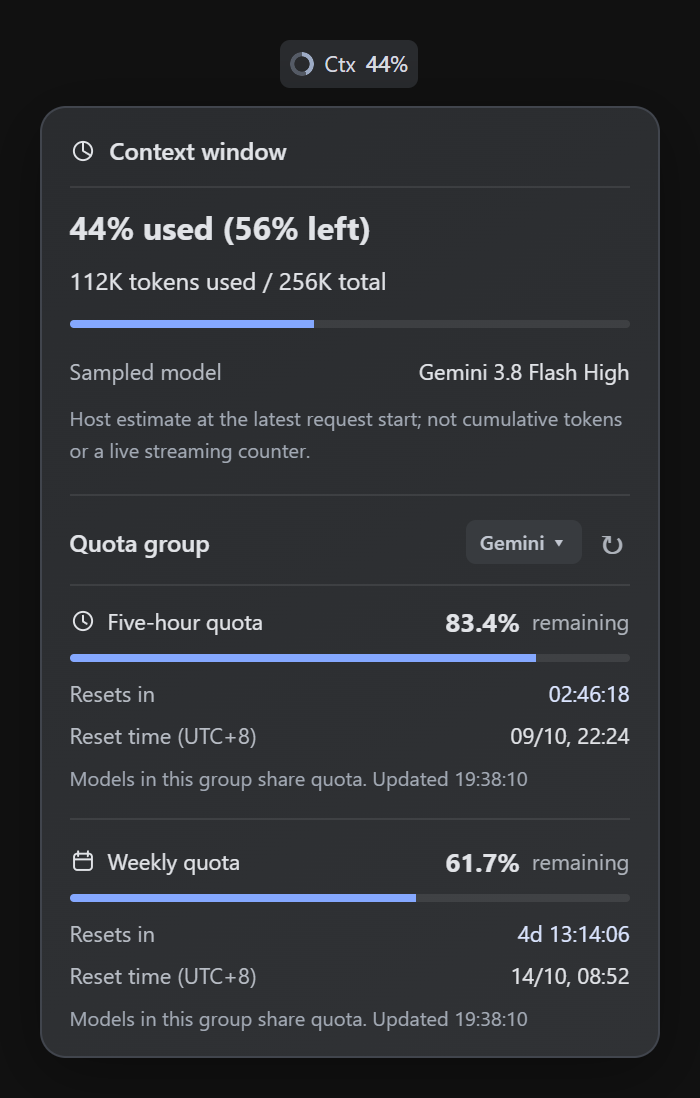
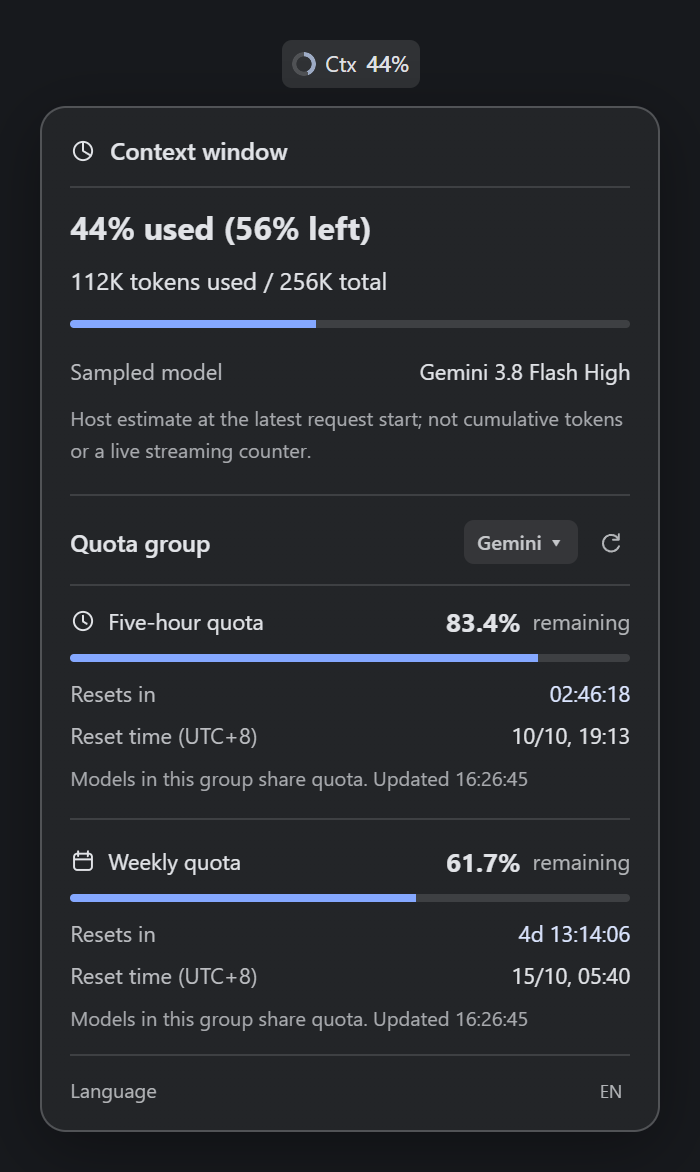
docs: refresh v0.6.3 screenshots and compact bilingual previews

diff --git a/README.md b/README.md
@@ -1,6 +1,6 @@
 <div align="center">
 
-<img src="docs/assets/hero.png?v=0.5.0-compact" width="100%" alt="Antigrative Dashboard v0.5: speed, cache and context beside the model selector.">
+<img src="docs/assets/hero.png?v=0.6.3" width="100%" alt="Antigrative Dashboard v0.6.3: current speed, cache and context controls beside the input.">
 
 # Antigrative Dashboard
 
@@ -20,9 +20,17 @@ Keep the summary visible. Hover for the details.
 
 ## Preview
 
-<img src="docs/assets/widget.png?v=0.5.1-compact" width="100%" alt="The latest three-control toolbar and its token cache hover card.">
+<img src="docs/assets/responsive.png?v=0.6.3" width="100%" alt="Current three-icon layout in a narrow main chat and separate statistics beside a subagent input.">
 
-<sub>Artwork uses illustrative data, not real account quotas or conversations. The installed widget reads metrics from your local Antigravity app. The widget defaults to English. Use the EN / 中 button to switch languages; your choice is saved.</sub>
+<table>
+<tr><th width="50%">Speed and cache</th><th width="50%">Context and shared quotas</th></tr>
+<tr>
+<td width="50%" valign="top"><img src="docs/assets/speed.png?v=0.6.3" width="100%" alt="Current generation speed detail card"><br><img src="docs/assets/widget.png?v=0.6.3" width="100%" alt="Current token usage and cache detail card"></td>
+<td width="50%" valign="top"><img src="docs/assets/context.png?v=0.6.3" width="100%" alt="Current context, five-hour and weekly quota details, with the saved-language control"></td>
+</tr>
+</table>
+
+<sub>Rendered from the current widget source with illustrative host layouts and data. Main and subagent samples use separate statistics; quotas are account-wide. The 44% context sample uses the latest request-start estimate, not cumulative input. The widget defaults to English; EN / 中 saves your choice.</sub>
 
 **Keep working. The numbers are already there.**
 
@@ -45,12 +53,6 @@ Keep the summary visible. Hover for the details.
 - **Compact-window support.** Full statistics reduce to three clickable icons (speed, cache and context) when space is limited. Hover or click for details; language switching stays available in the context card. The strip hides only if the icons cannot fit safely and restores when space returns. Message controls hidden behind the composer do not cause scroll flicker.
 - **Theme adaptation.** Controls, cards and quota menus follow Antigravity's light/dark mode and custom background, card, text and accent colors, with readable text and OS fallback in standalone previews. Live changes require no restart or conversation reload.
 - **Local collection.** The collector talks to loopback endpoints. It does not upload your metrics to a third-party service.
-
-### Context window
-
-<img src="docs/assets/context.png?v=0.5.1-compact" width="460" alt="Context usage and both five-hour and weekly quota details in one hover card">
-
-<sub>Illustrative 44% sample. Uses the host estimate at the latest request start; capacity may be unavailable.</sub>
 
 ## Antigravity CLI status line
 

diff --git a/README.zh-CN.md b/README.zh-CN.md
@@ -1,6 +1,6 @@
 <div align="center">
 
-<img src="docs/assets/hero-zh.png?v=0.5.0-compact" width="100%" alt="Antigrative Dashboard v0.5：速度、缓存和上下文，就在模型选择旁。">
+<img src="docs/assets/hero-zh.png?v=0.6.3" width="100%" alt="Antigrative Dashboard v0.6.3：最新版速度、缓存和上下文控件，就在输入框旁。">
 
 # Antigrative Dashboard
 
@@ -20,9 +20,17 @@
 
 ## 看看效果
 
-<img src="docs/assets/widget-zh.png?v=0.5.1-compact" width="100%" alt="最新版三个常驻控件：速度、缓存、上下文，以及缓存悬浮卡。">
+<img src="docs/assets/responsive-zh.png?v=0.6.3" width="100%" alt="最新版主对话窄窗口三图标布局，以及子代理输入框旁的独立统计。">
 
-<sub>封面和效果图直接使用当前插件源码渲染，数据为示例，不展示真实账户、额度或对话。实际插件的数据来自本机 Antigravity 接口。</sub>
+<table>
+<tr><th width="50%">生成速度与缓存</th><th width="50%">上下文与共享额度</th></tr>
+<tr>
+<td width="50%" valign="top"><img src="docs/assets/speed-zh.png?v=0.6.3" width="100%" alt="最新版生成速度详情卡"><br><img src="docs/assets/widget-zh.png?v=0.6.3" width="100%" alt="最新版 Token 用量与缓存详情卡"></td>
+<td width="50%" valign="top"><img src="docs/assets/context-zh.png?v=0.6.3" width="100%" alt="最新版上下文、5h 和周额度详情，以及持久化语言切换入口"></td>
+</tr>
+</table>
+
+<sub>使用当前控件源码和示意宿主布局渲染，数值为示例。主对话与子代理统计分别展示，账号额度共享；44% 上下文读取最近请求开始时的估计值，不是累计输入。实际插件的数据来自本机 Antigravity 接口，中英文选择会保存。</sub>
 
 **不用打开一个监控面板，继续你的对话。**
 
@@ -42,12 +50,6 @@
 - **跟随主题配色。** 控件、悬浮卡和额度菜单跟随 Antigravity 的深浅模式及自定义背景、卡片、文字和强调色，并保持文字可读；独立预览跟随系统，切换主题无需重启或重新加载对话。
 - **语言设置跨重启保留。** 中英文选择写入独立的 `AntigravityPulse/preferences.json` 用户配置，控件和侧面板共用；不依赖应用每次启动的本地端口。
 - **不上传采集数据。** 后台使用本机 loopback 接口，数值留在你的电脑。
-
-### 上下文窗口占用
-
-<img src="docs/assets/context-zh.png?v=0.5.1-compact" width="460" alt="上下文窗口占用与 5h、周额度合并在同一张悬浮卡中">
-
-<sub>示例为 44% 占用，非真实对话数据。实际读取宿主最近请求开始时的估计值；缺少容量会明确显示不可用。</sub>
 
 ## Antigravity CLI 状态栏
 

diff --git a/CHANGELOG.md b/CHANGELOG.md
@@ -2,6 +2,7 @@
 
 ## Unreleased — CI maintenance
 
+- Refresh English/Chinese README artwork from the v0.6.3 widget: full and icon layouts, separate subagent statistics, speed/cache details and combined context/quotas. Use one color theme and a compact two-column detail layout; read the version from the manifest when regenerating images.
 - Allow up to 30 seconds for the CLI shell-transport test on Windows CI, where cold CMD/PowerShell/Node startup exceeded the previous 10-second limit. Keep the exit-code and exact rendered-output assertions, with no automatic test retry. Desktop and CLI runtime behavior is unchanged.
 
 ## 0.6.3 — 2026-10-10
